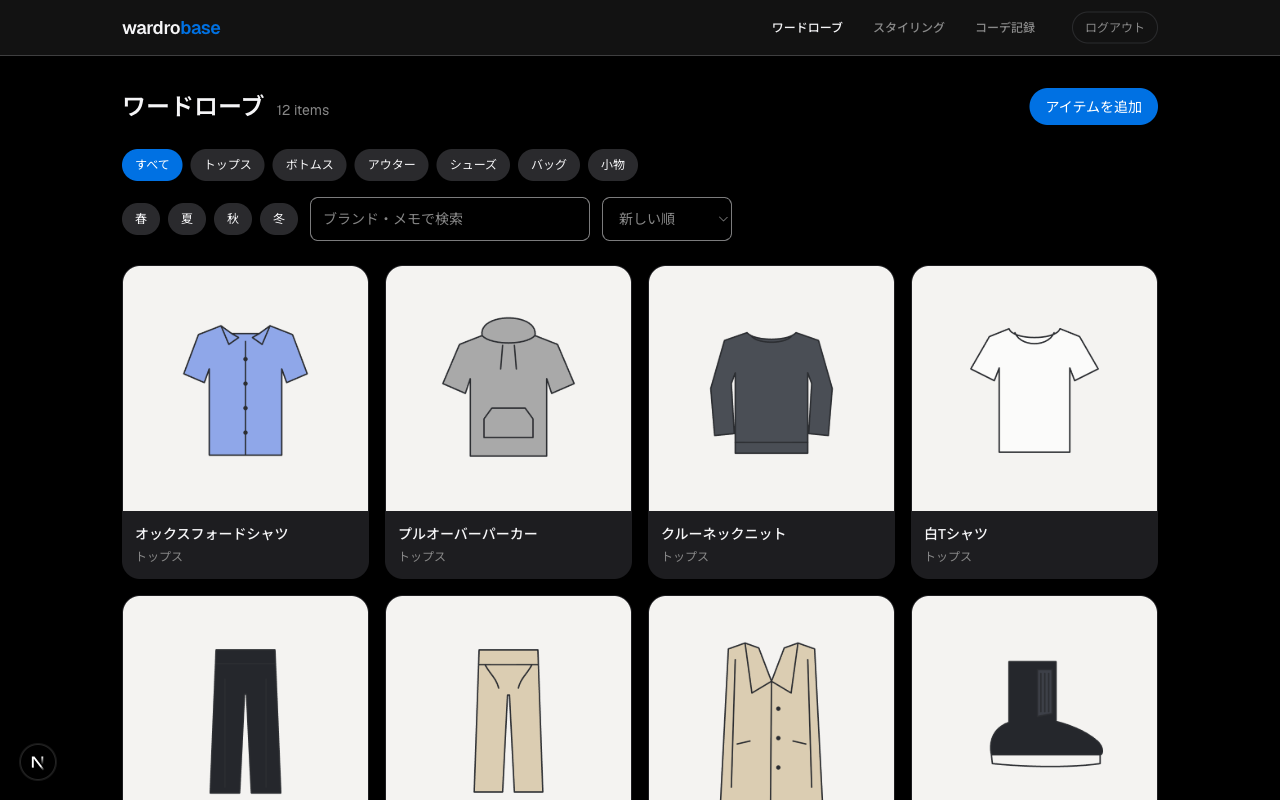
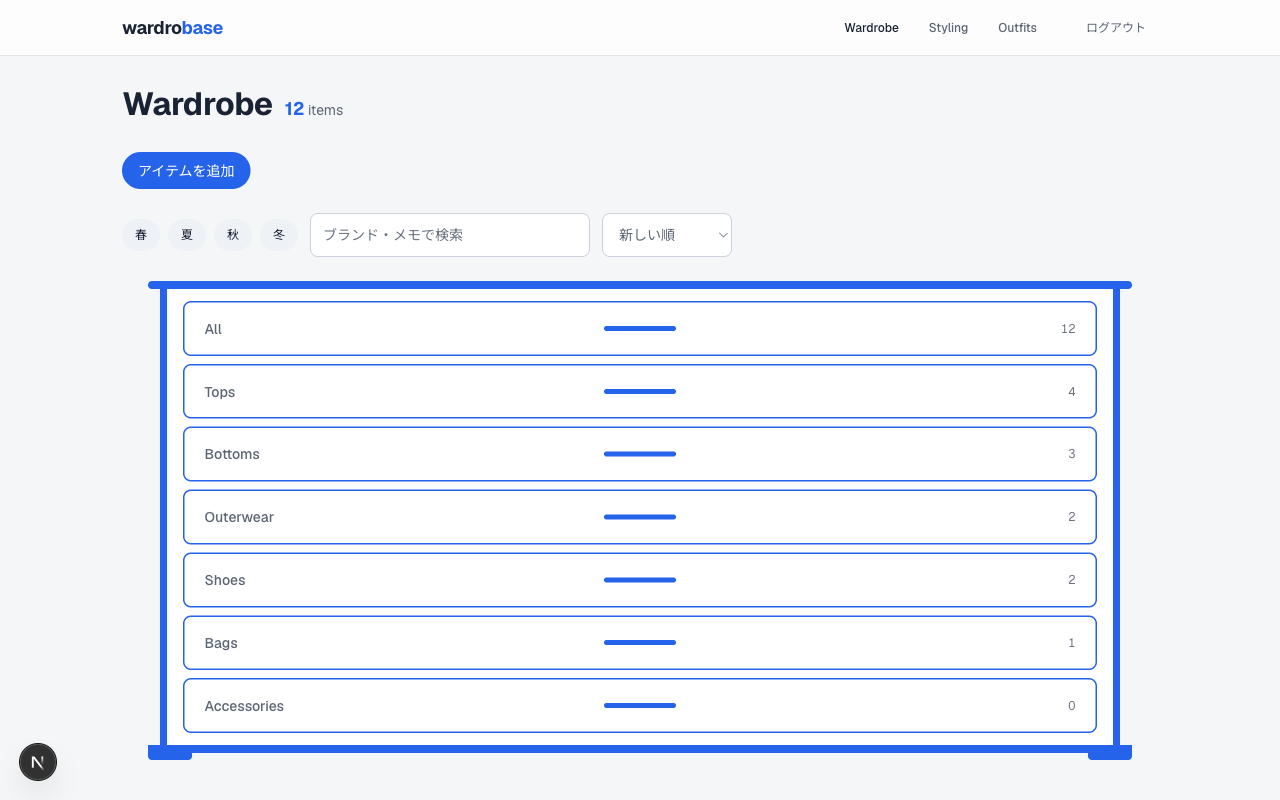
docs: READMEとスクリーンショットを現行UIに合わせて更新する

diff --git a/README.md b/README.md
@@ -6,6 +6,8 @@
 
 > Wardrobase = Wardrobe + Base。wardro**be** と **b**ase が b を共有して重なる造語で、「手持ちの服を体系化した基盤」を意味します。
 
+**本番環境: https://wardrobase.vercel.app** — ログイン画面の「デモを見る」から、登録なしで閲覧専用デモを試せます。
+
 ## スクリーンショット
 
 ### スタイリングボード
@@ -22,13 +24,13 @@
 
 ### コーデ記録
 
-「その日に実際に着たコーデ」を記録します。保存済みスタイリングから 1 回の選択で起こすこともできます。記録は日付リストで振り返れます。
+「その日に実際に着たコーデ」を記録します。保存済みスタイリングから 1 回の選択で起こすこともできます。記録はルックブック（本）として振り返ります。広い画面では線画の本にポラロイド写真が貼られ、ページをめくって過去を辿れます。スマホではリング綴じのノートになり、日付スタンプとポラロイドの散らし貼りで 1 日分を綴ります。
 
 ![コーデ記録](.github/screenshots/outfits.png)
 
 ### ログイン
 
-クローゼットの扉が開いてアプリが始まる、線画の演出を採用しています。
+クローゼットの扉が開いてアプリが始まる、線画の演出を採用しています。この「細い青線の線画」はワードローブのたんす・ルックブックの本・リングノートにも通底するデザイン言語です。
 
 ![ログイン画面](.github/screenshots/login.png)
 
@@ -120,7 +122,6 @@ npm run check   # CI と同一内容（lint → test → build）
 
 ## 今後の予定
 
-- デプロイ・デモログイン（登録なしで中身を試せるように）
 - 分析ダッシュボード（稼働率・着用単価・着用回数ランキング）
 - 1 タップ着用記録
 - ブラウザ内 ML による画像の背景切り抜き（写真を外部に送らずクライアントで完結）
